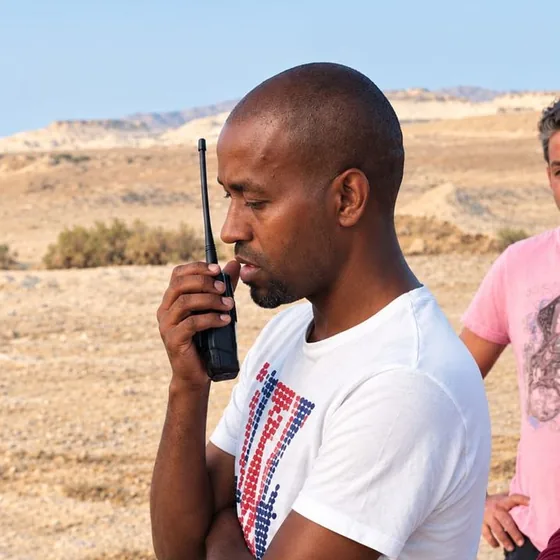
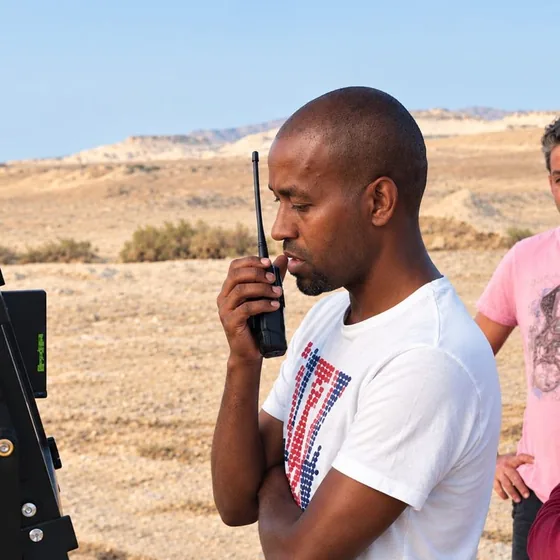
Hero photo: wider framing that starts open and slowly moves in towards Shmuel, stopping short of a close-up (WebP 560/840)
Claude-Session: https://claude.ai/code/session_01WVQVaCY4fGJ7k5v4v453FP

diff --git a/assets/css/style.css b/assets/css/style.css
@@ -409,8 +409,8 @@ body.locked{overflow:hidden}
 @keyframes iris{to{clip-path:circle(80% at 52% 49%)}}
 
 /* film look: a light, natural grade, moving film grain, a soft vignette and a faint light leak; after it opens the frame zooms slowly in and out, with no jumps */
-.lion .ph{position:absolute;inset:-3%;width:106%;height:106%;object-fit:cover;object-position:50% 50%;filter:contrast(1.06) saturate(.9) sepia(.08) brightness(1.02);transform-origin:56% 38%;animation:drift 16s 3.8s ease-in-out infinite alternate}
-@keyframes drift{from{scale:1}to{scale:1.08;translate:-1% .6%}}
+.lion .ph{position:absolute;inset:-3%;width:106%;height:106%;object-fit:cover;object-position:50% 50%;filter:contrast(1.06) saturate(.9) sepia(.08) brightness(1.02);transform-origin:57% 36%;animation:drift 18s 3.8s ease-in-out infinite alternate}
+@keyframes drift{from{scale:1}to{scale:1.16}}
 .lion .grade{position:absolute;inset:0;background:linear-gradient(180deg,rgba(255,200,140,.14),rgba(255,200,140,0) 45%,rgba(40,20,5,.22));mix-blend-mode:soft-light}
 .lion .grade::after{content:"";position:absolute;inset:0;background:rgba(255,245,230,.05);mix-blend-mode:screen}
 .lion .leak{position:absolute;inset:-20%;background:radial-gradient(40% 35% at 88% 18%,rgba(255,140,60,.55),rgba(255,140,60,0) 70%);mix-blend-mode:screen;opacity:.25;animation:leak 9s 4.7s ease-in-out infinite alternate}

diff --git a/en/index.html b/en/index.html
@@ -79,7 +79,7 @@
             <svg viewBox="0 0 100 99.19"><g fill="none" stroke="#4A3826" stroke-width=".5" opacity=".7"><circle cx="52" cy="49" r="22"/><circle cx="52" cy="49" r="26.5"/><path d="M52 10v80M8 49h88"/></g></svg>
             <b class="n n3">3</b><b class="n n2">2</b><b class="n n1">1</b>
           </div>
-          <div class="shot"><img class="ph" src="../assets/img/hero-shmuel-560.webp" srcset="../assets/img/hero-shmuel-560.webp 560w, ../assets/img/hero-shmuel-715.webp 715w" sizes="(min-width:900px) 500px, 64vw" width="715" height="715" alt="" decoding="async"><i class="grade"></i><i class="leak"></i><i class="vig"></i><i class="grain"></i></div>
+          <div class="shot"><img class="ph" src="../assets/img/hero-shmuel-560.webp" srcset="../assets/img/hero-shmuel-560.webp 560w, ../assets/img/hero-shmuel-840.webp 840w" sizes="(min-width:900px) 500px, 64vw" width="840" height="840" alt="" decoding="async"><i class="grade"></i><i class="leak"></i><i class="vig"></i><i class="grain"></i></div>
         </div>
       </div>
       <div class="slate mono fd d4" aria-hidden="true">

diff --git a/index.html b/index.html
@@ -79,7 +79,7 @@
             <svg viewBox="0 0 100 99.19"><g fill="none" stroke="#4A3826" stroke-width=".5" opacity=".7"><circle cx="52" cy="49" r="22"/><circle cx="52" cy="49" r="26.5"/><path d="M52 10v80M8 49h88"/></g></svg>
             <b class="n n3">3</b><b class="n n2">2</b><b class="n n1">1</b>
           </div>
-          <div class="shot"><img class="ph" src="assets/img/hero-shmuel-560.webp" srcset="assets/img/hero-shmuel-560.webp 560w, assets/img/hero-shmuel-715.webp 715w" sizes="(min-width:900px) 500px, 64vw" width="715" height="715" alt="" decoding="async"><i class="grade"></i><i class="leak"></i><i class="vig"></i><i class="grain"></i></div>
+          <div class="shot"><img class="ph" src="assets/img/hero-shmuel-560.webp" srcset="assets/img/hero-shmuel-560.webp 560w, assets/img/hero-shmuel-840.webp 840w" sizes="(min-width:900px) 500px, 64vw" width="840" height="840" alt="" decoding="async"><i class="grade"></i><i class="leak"></i><i class="vig"></i><i class="grain"></i></div>
         </div>
       </div>
       <div class="slate mono fd d4" aria-hidden="true">

diff --git a/CLAUDE.md b/CLAUDE.md
@@ -18,7 +18,7 @@
 - Type: Karantina for headings (poster style), Heebo for text, IBM Plex Mono for small labels.
 - Hero: the silhouette with a film countdown (3-2-1) that plays once and opens onto a photo of Shmuel
   behind the scenes, with a light film look (natural colour, moving grain, soft vignette, faint light leak)
-  and a slow, smooth zoom in and out; no jumps or flicker.
+  and a slow, smooth zoom that starts wide and moves in (not a tight close-up); no jumps or flicker.
 - Keep the existing copy; only light adaptations unless the owner asks otherwise.
 - The site lives at the repository root: `index.html` (+ `en/index.html`), `assets/css/style.css`,
   `assets/js/main.js`, `assets/img/`. Images are WebP in two widths with `srcset`; keep that when
